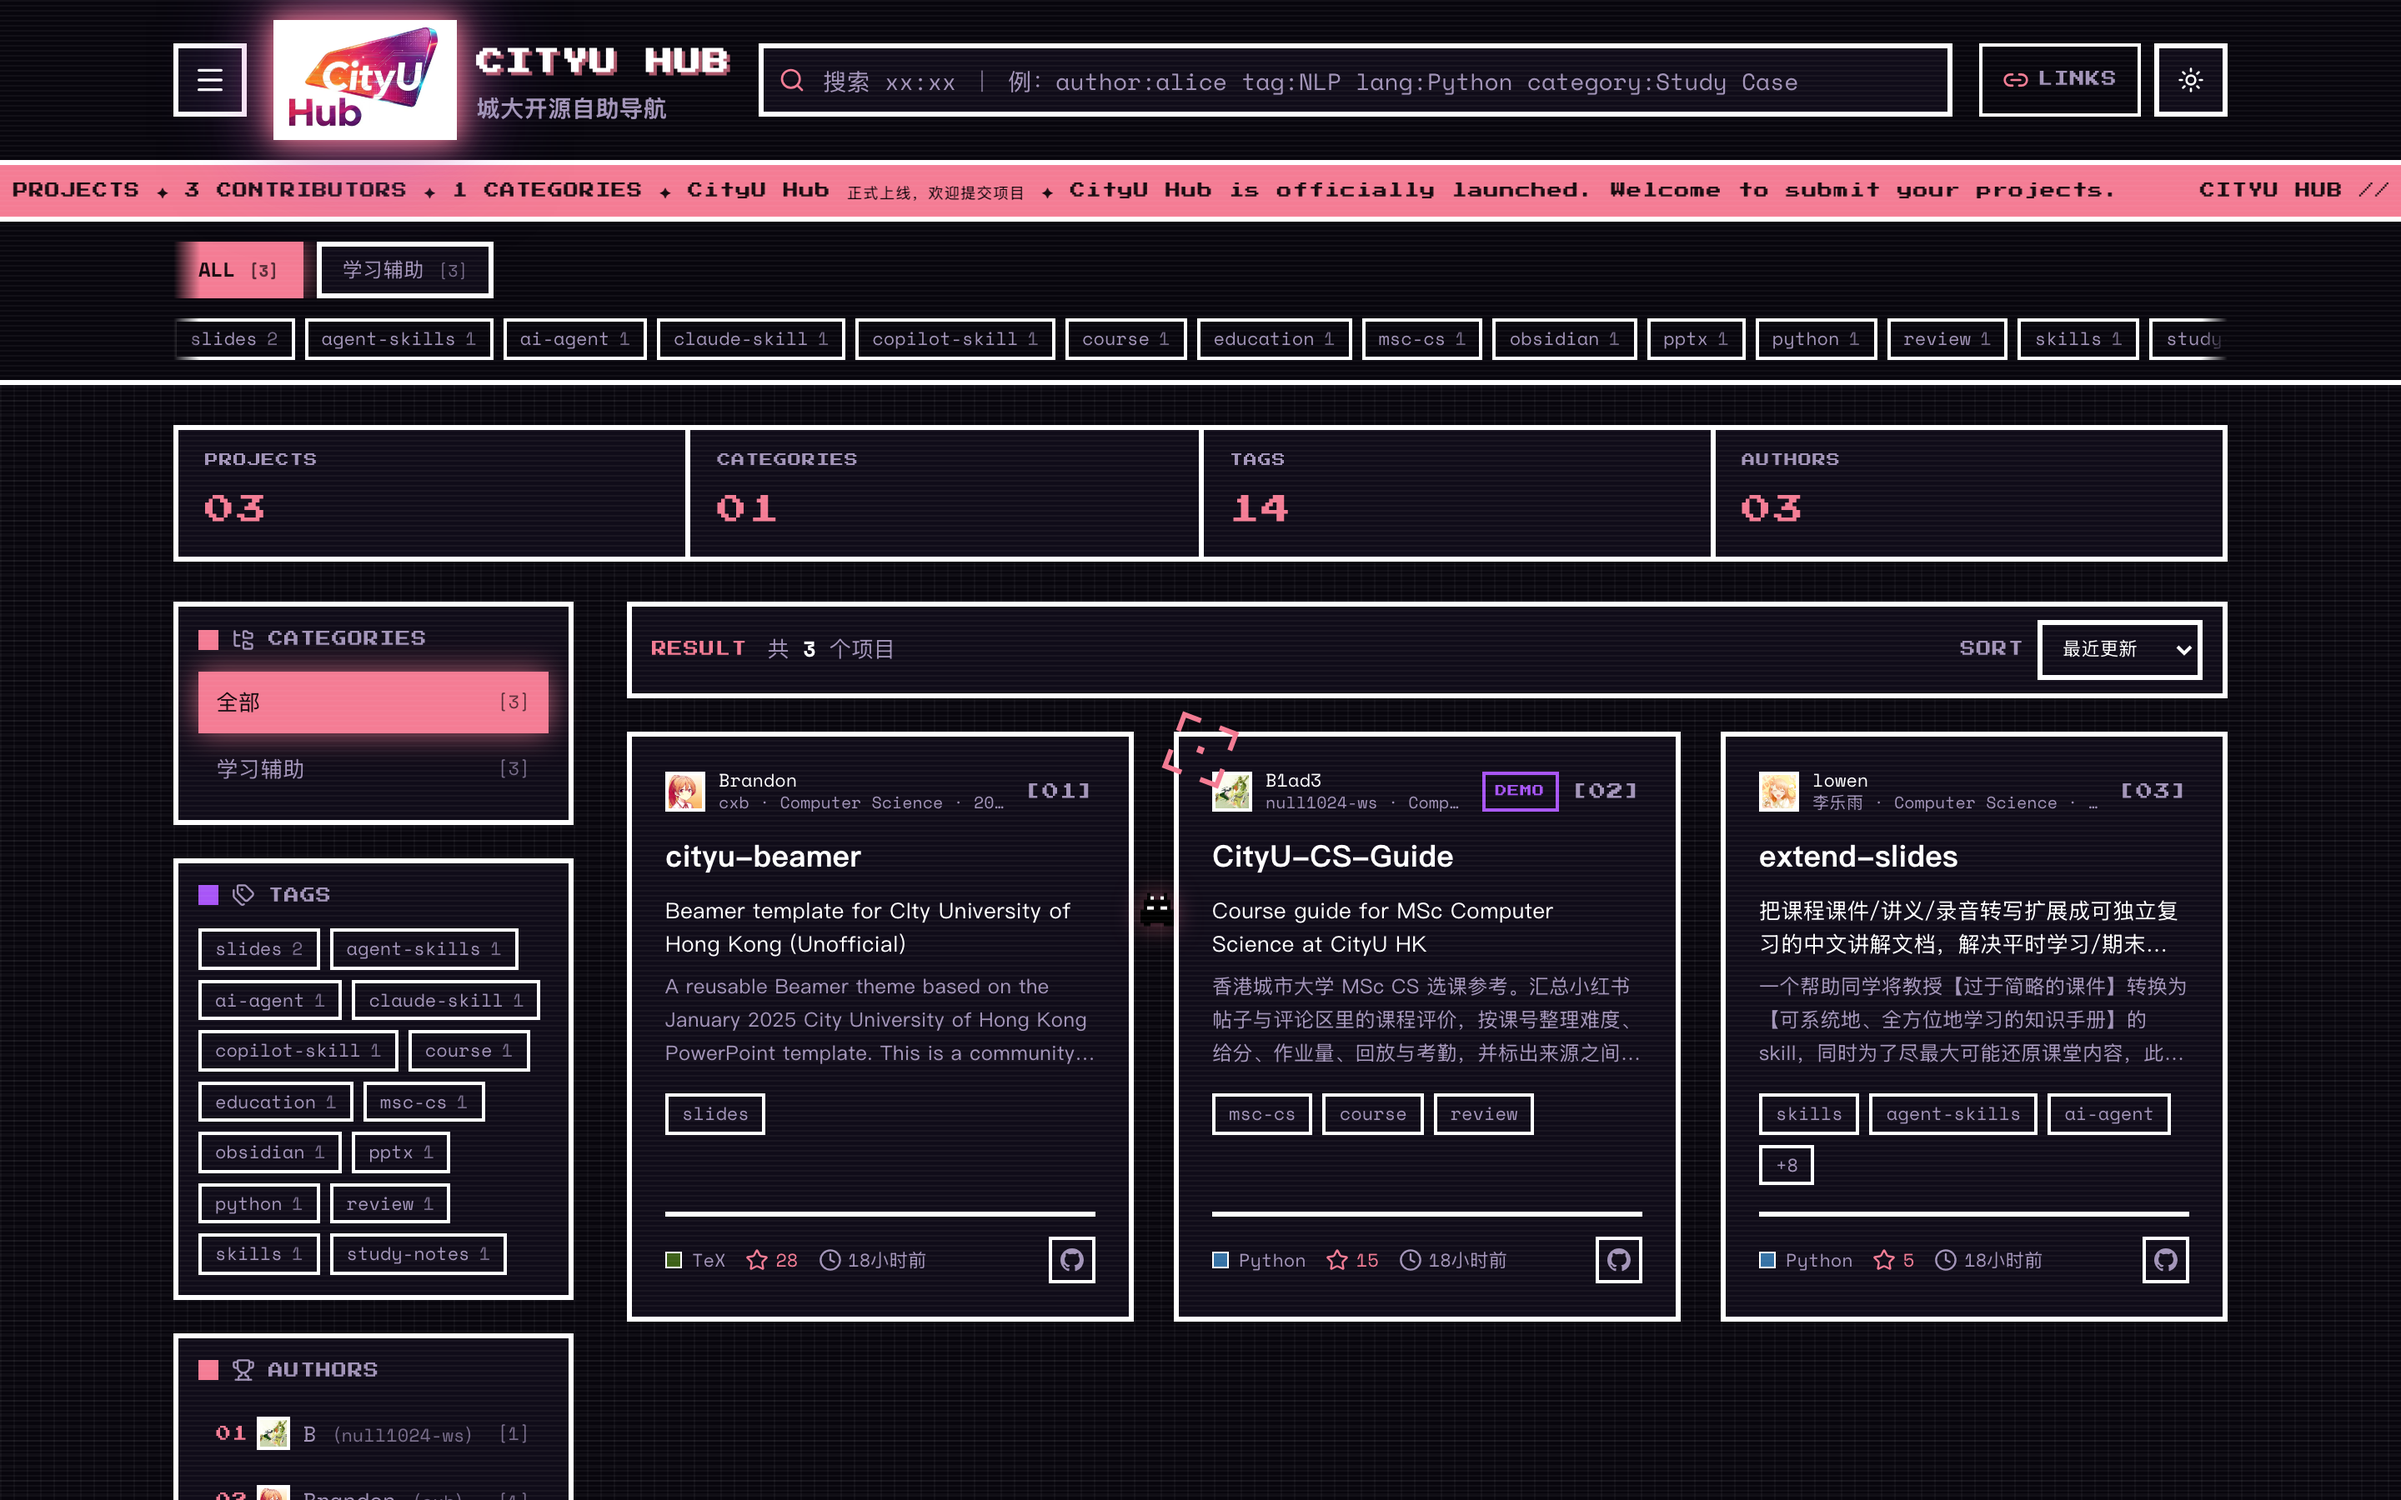
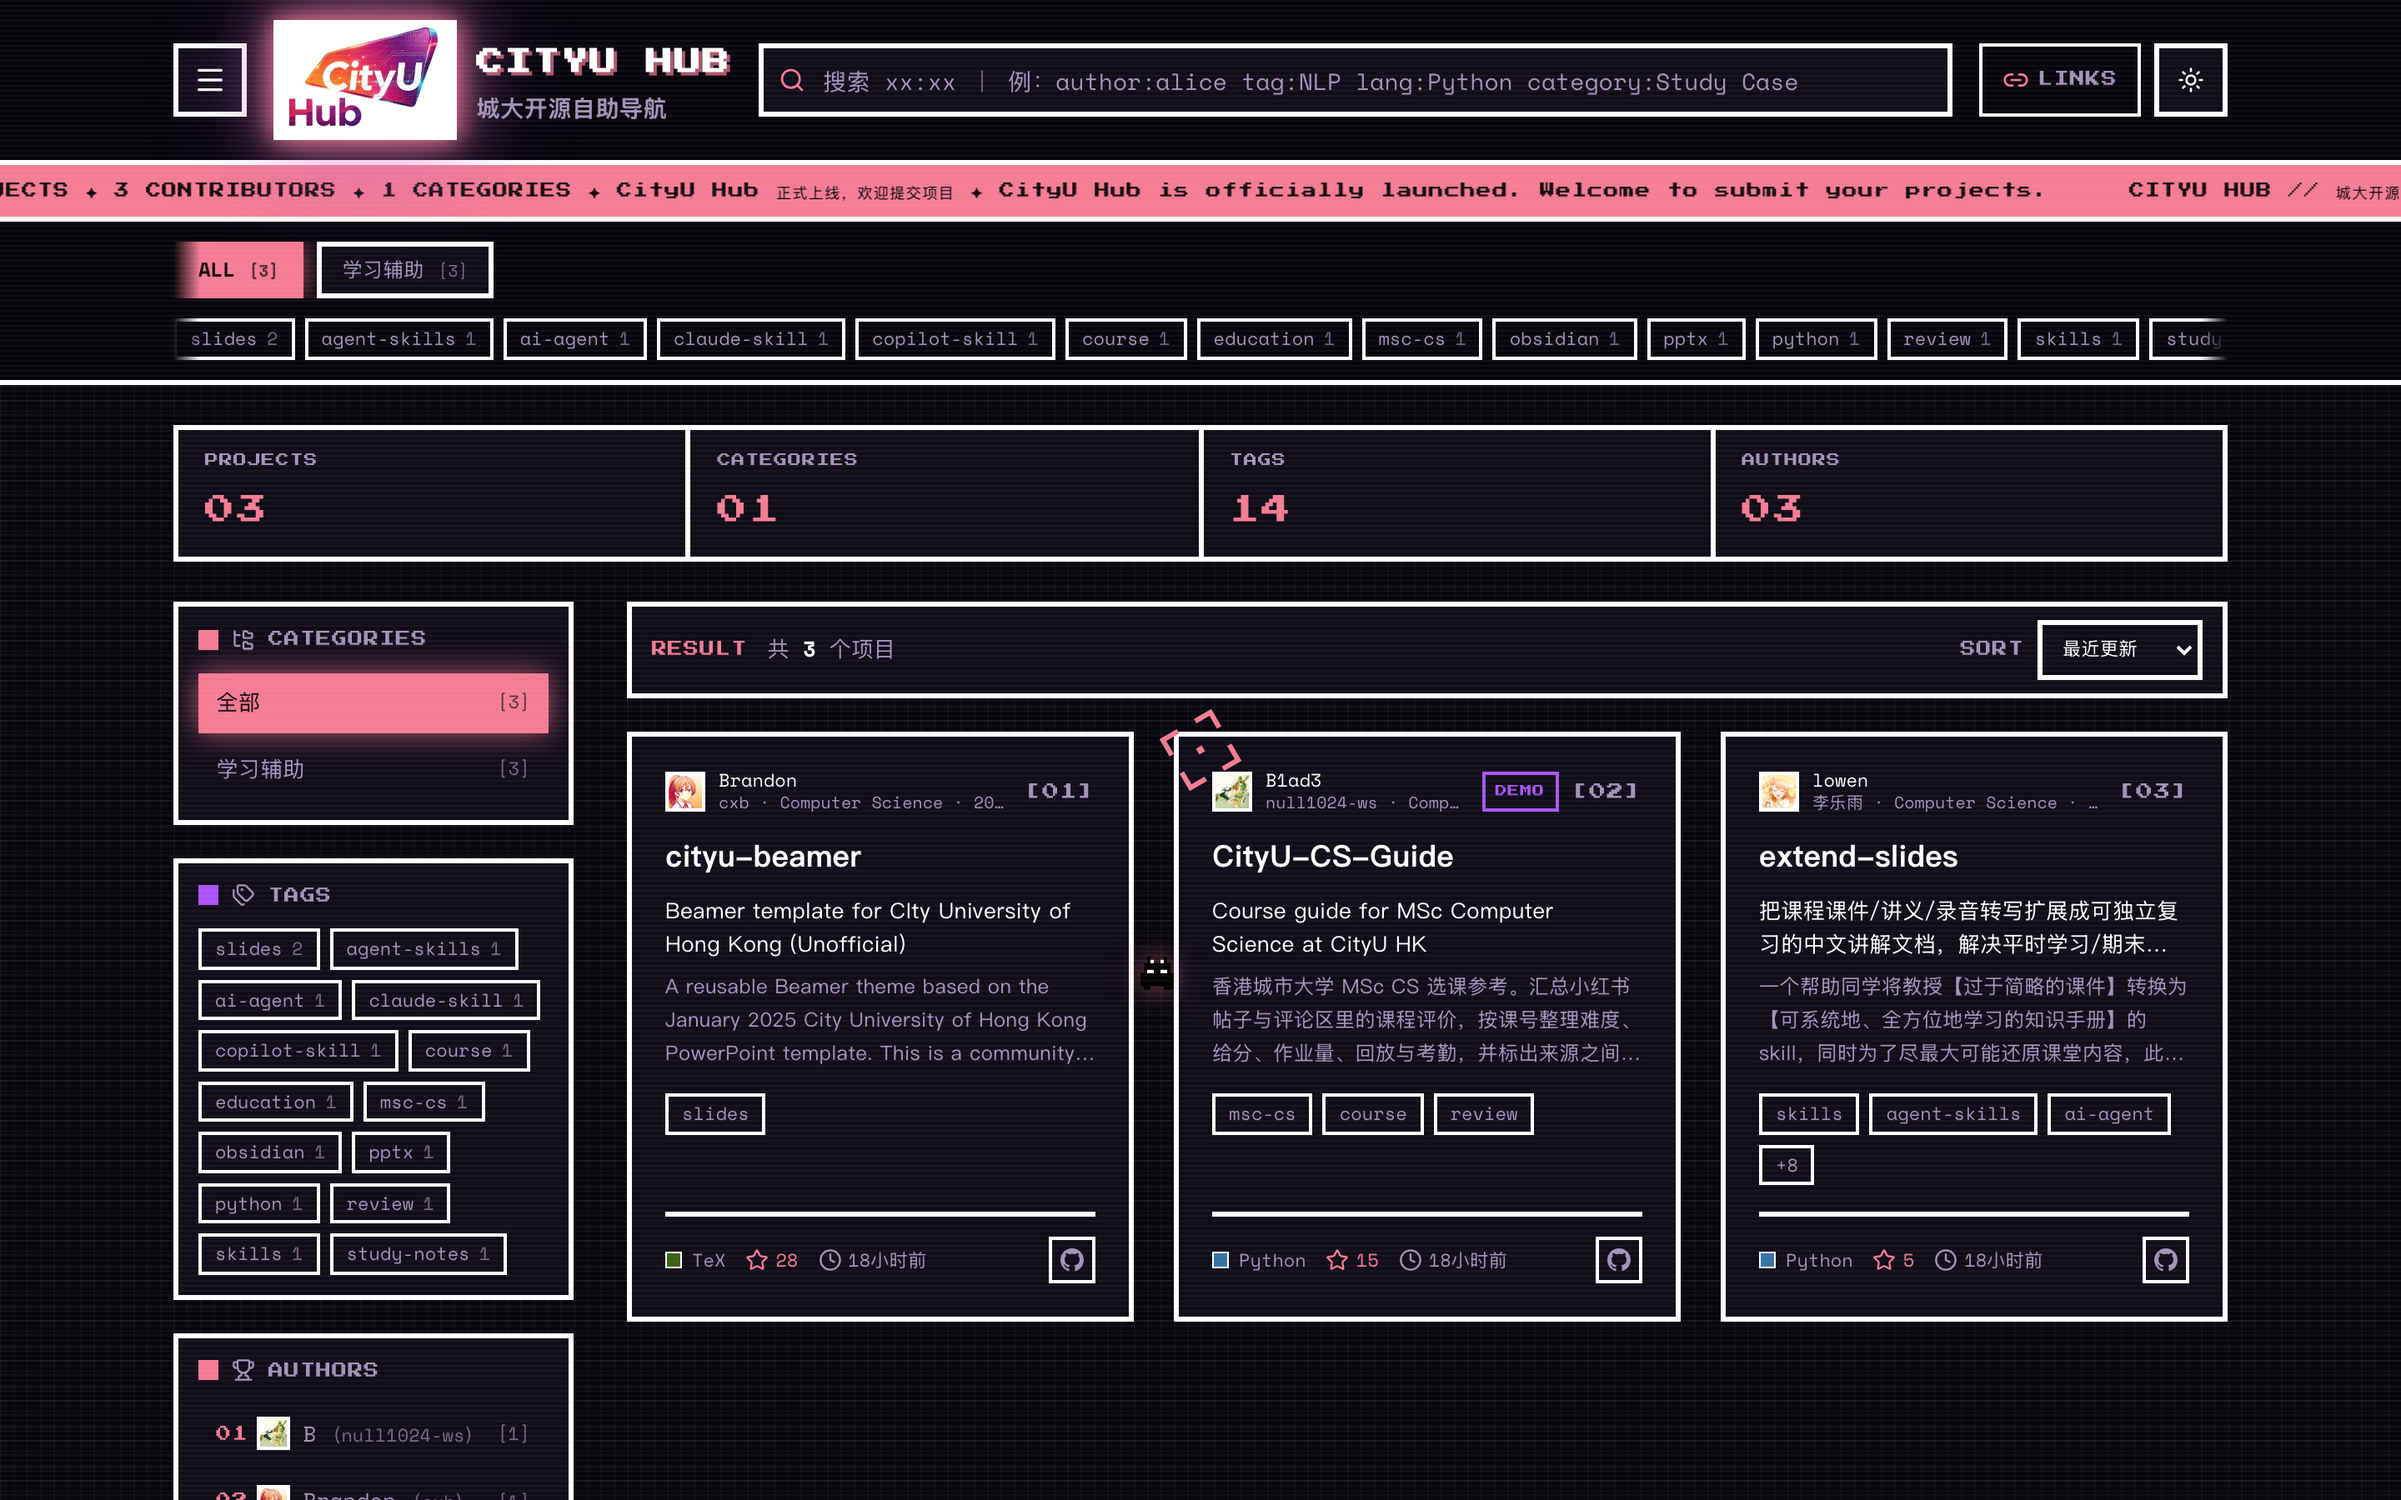
feat: README 截图标注截图时间与截图者
README 的站点一览图用 <!-- screenshot:start --> 区块包裹，截图脚本在图片
变化时一并刷新该区块：写入北京时间（UTC+8）与截图者。CI 里截图者取
github.actor（触发本次推送的人），本地则取 git config user.name。
截图未变化时整个跳过，避免时间戳频繁变动产生无意义提交。

diff --git a/README.md b/README.md
@@ -22,9 +22,13 @@
 
 <div align="center">
 
+<!-- screenshot:start -->
 <img src="web/public/screenshot.png" alt="CityU Hub 首页截图 / homepage screenshot" width="920" />
 
 **站点一览 · Homepage at a glance**
+
+截图时间 / 截圖時間 / captured at: 2026-09-23 02:51 (UTC+8) · 截图者 / 截圖者 / by: @Warpshlczy
+<!-- screenshot:end -->
 
 <a href="https://cityu-hub.bond">
   <img src="https://img.shields.io/badge/%E7%AB%8B%E5%8D%B3%E8%AE%BF%E9%97%AE%E7%BD%91%E7%AB%99-cityu--hub.bond-f47c94?style=for-the-badge&logo=vercel&logoColor=white" alt="立即访问网站 / visit site" />
